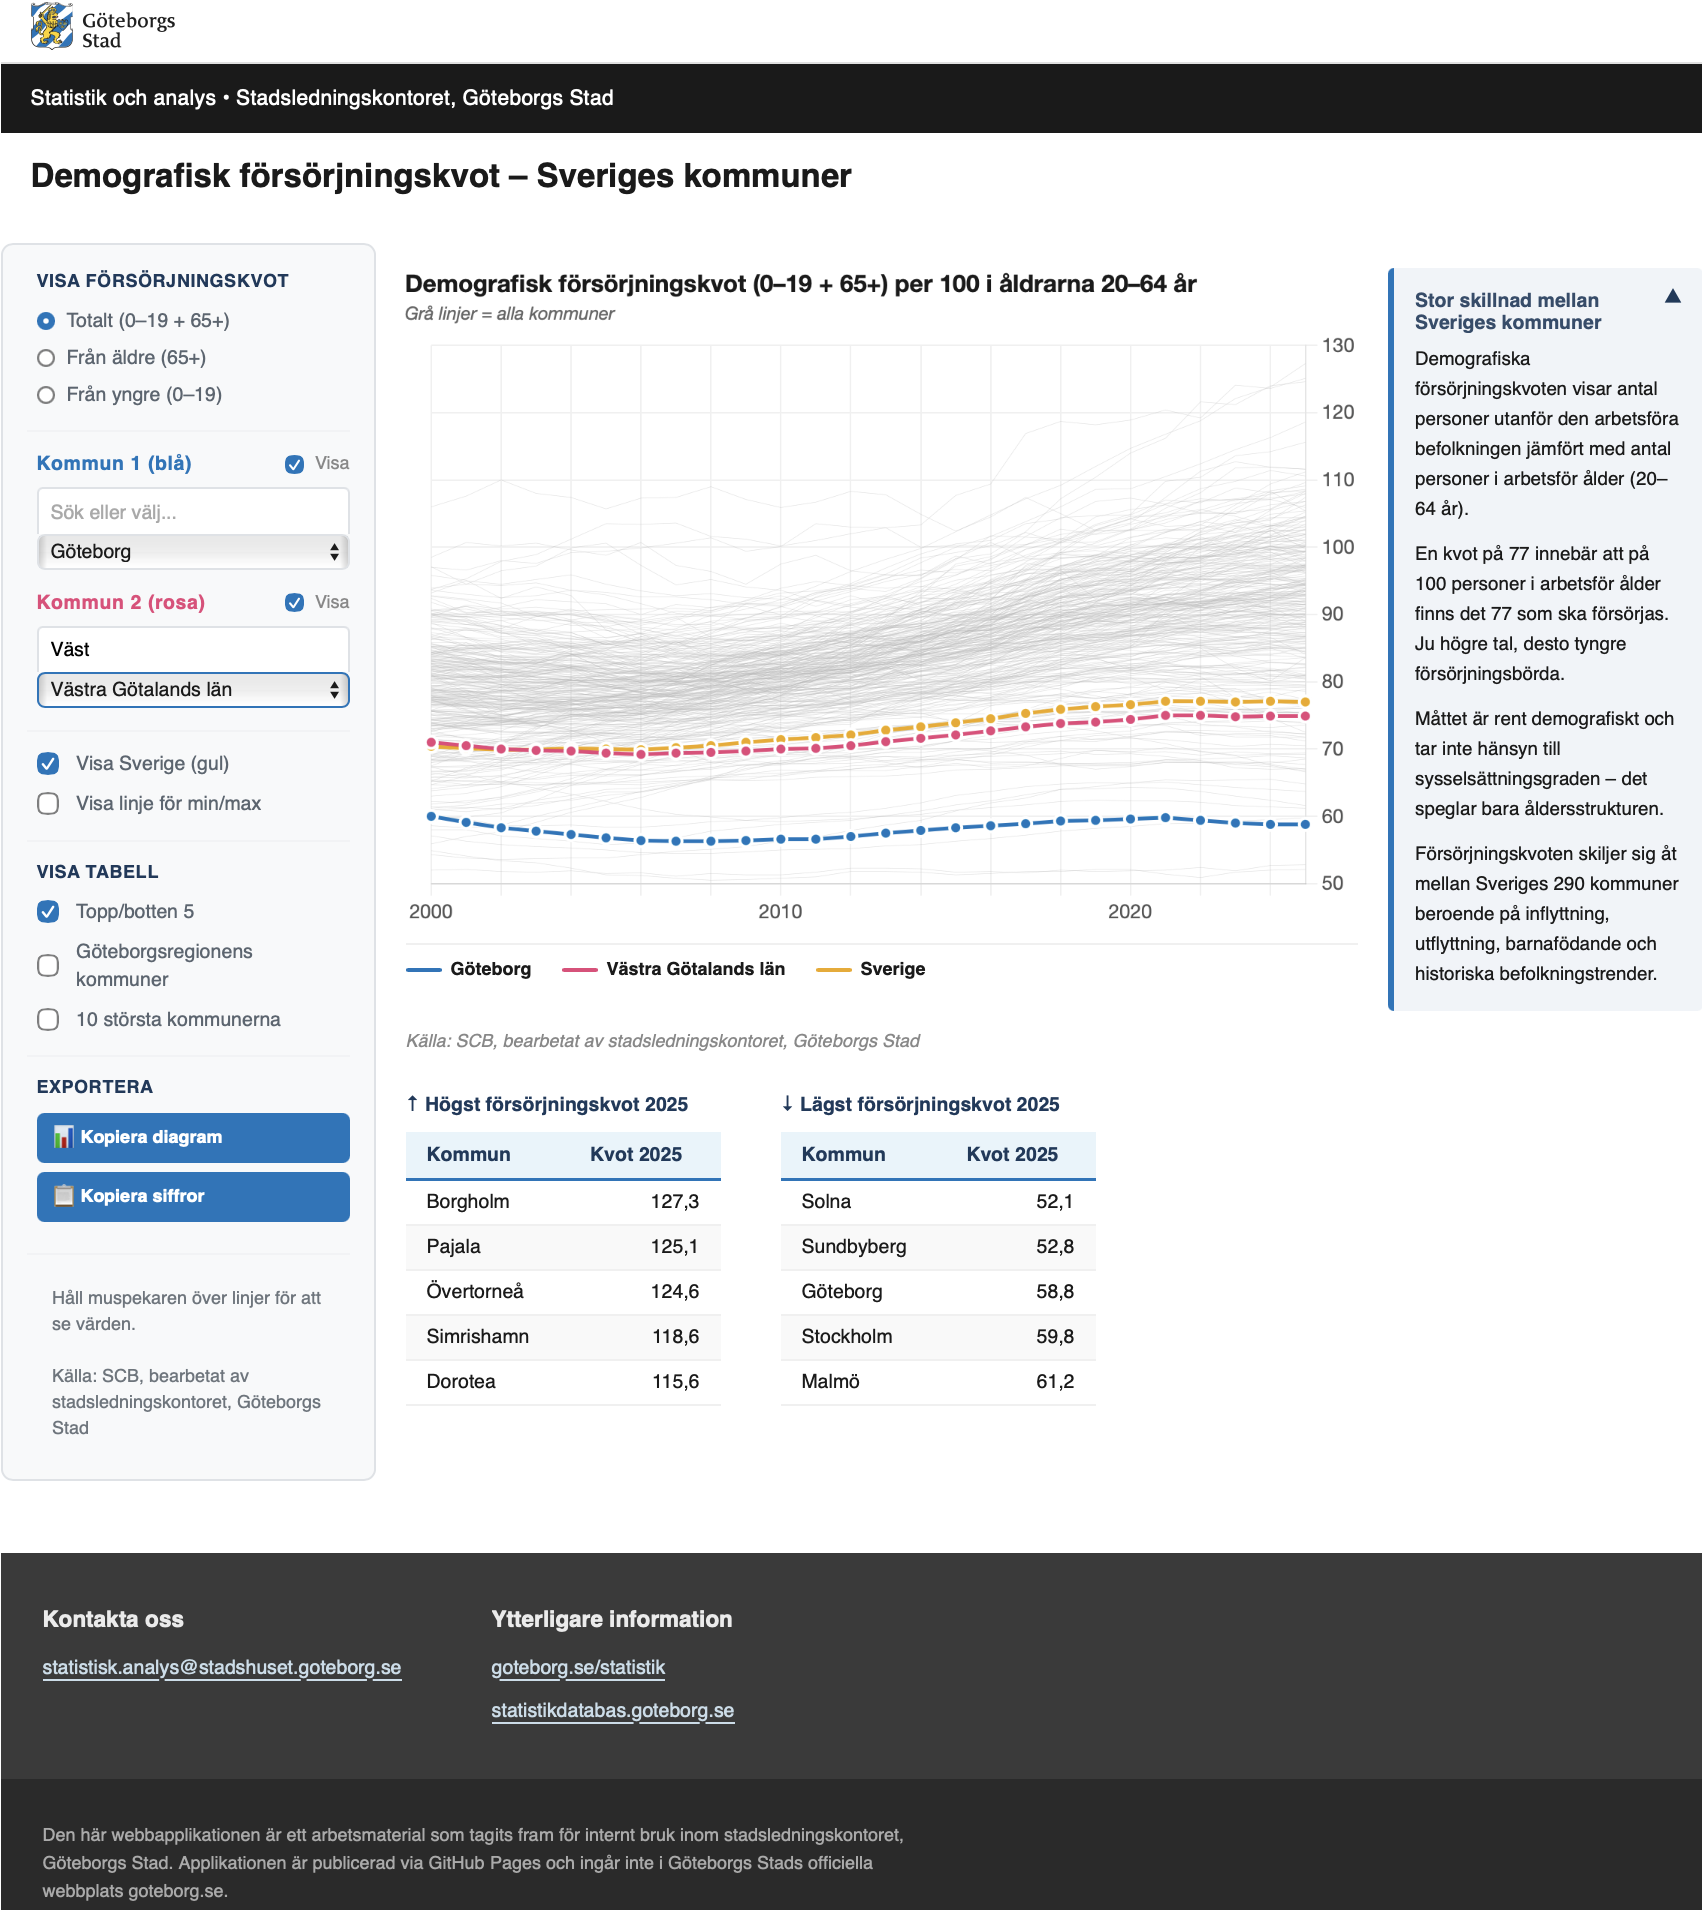
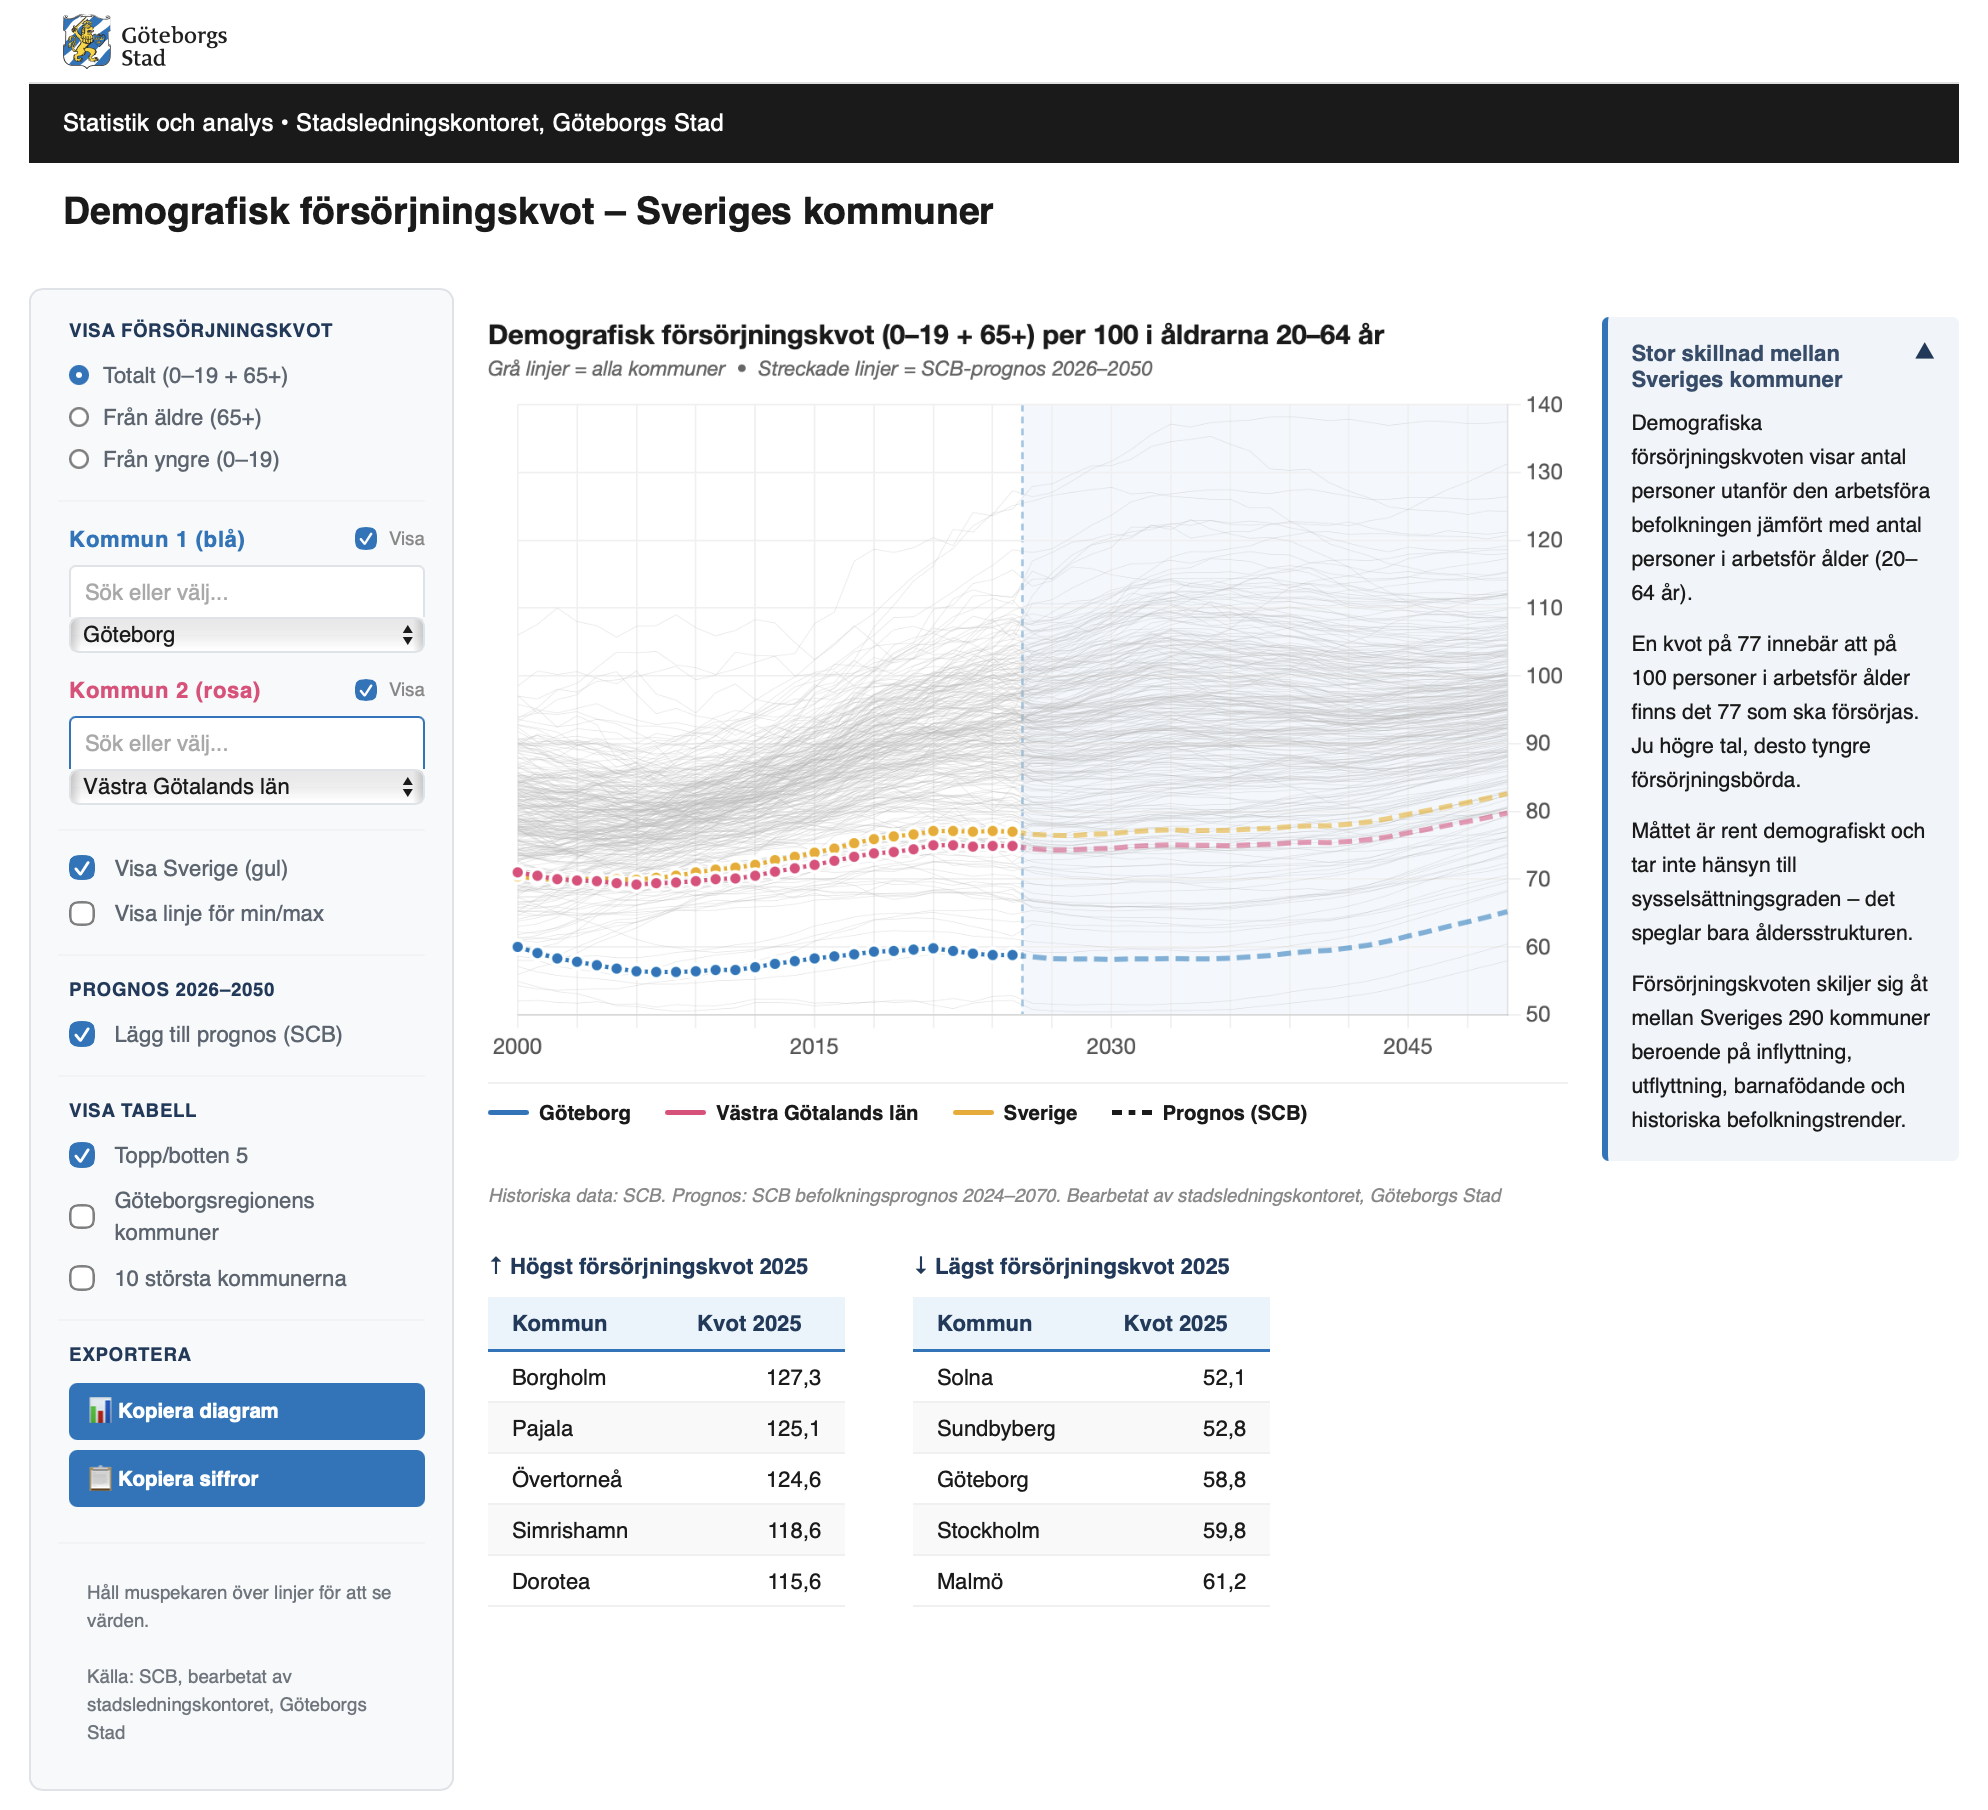
feat: prognos 2026–2050, mobilfix, uppdaterad README

diff --git a/README.md b/README.md
@@ -1,65 +1,134 @@
 # Demografisk försörjningskvot – Sveriges kommuner
 
-Interaktiv webbapplikation för analys av demografisk försörjningskvot i Sveriges kommuner, framtagen inom stadsledningskontoret, Göteborgs Stad.
+Interaktiv webbapplikation som visar demografisk försörjningskvot för alla Sveriges kommuner och län 2000–2025, med möjlighet att lägga till SCB:s befolkningsprognos 2026–2050.
+
+**Länk:** https://globalfunlearning.github.io/forsorjningskvot/
 
 ![Skärmdump av applikationen](skärmdump.png)
 
-## Om applikationen
+---
 
-Applikationen visar hur den demografiska försörjningskvoten skiljer sig åt mellan Sveriges kommuner under perioden 2000–2025. Måttet visar hur många personer som befinner sig utanför arbetsför ålder (0–19 år och 65+) per 100 personer i arbetsför ålder (20–64 år) – ett rent demografiskt mått som inte tar hänsyn till faktisk sysselsättning.
+## Funktioner
 
-Tre mått kan väljas:
-- **Totalt** – summan av barn och äldre
-- **Från äldre** – personer 65 år och äldre
-- **Från yngre** – personer 0–19 år
+- Välj mellan tre mått: totalt (0–19 + 65+), från äldre (65+) eller från yngre (0–19)
+- Jämför valfria kommuner eller län mot varandra
+- Visa Sverige, min/max-linjer och grå bakgrundslinjer för alla kommuner
+- **Prognos 2026–2050** (SCB): lägg till streckade prognoslinjer med ljusblå bakgrund för prognosåren
+- Tabeller: topp/botten 5, Göteborgsregionens kommuner, 10 största kommunerna
+- Exportera diagram som PNG eller data som TSV (klistras in i Excel)
+- Responsiv layout – fungerar på mobil och desktop
 
-Längst ner i kommunlistan finns även Sveriges 21 län, som kan väljas och jämföras på samma sätt som kommuner.
+---
+
+## Filstruktur
+
+```
+forsorjningskvot/
+├── index.qmd            # Huvudfil – Quarto + HTML + JavaScript
+├── styles.css           # CSS enligt Göteborgs grafiska profil
+├── _quarto.yml          # Quarto-konfiguration
+├── gbg_li_rgb.svg       # Göteborgs logotyp
+├── hamta_data.R         # Hämtar historiska data från SCB API → data/forsorjningskvot.json
+├── hamta_prognos.R      # Hämtar SCB:s befolkningsprognos → data/prognos.json
+├── README.md            # Projektbeskrivning
+├── skärmdump.png        # Skärmdump i README
+├── data/                # Genererad JSON (gitignorerad)
+└── docs/                # Renderad HTML (publiceras via GitHub Pages)
+```
+
+---
 
 ## Arbetsflöde
 
-Data hämtas direkt från SCB:s statistikdatabas via API med R-paketet `pxweb`. När ny statistik finns tillgänglig (normalt varje år) körs datahämtningen om och applikationen renderas på nytt.
-
-```
-hamta_data.R          → data/forsorjningskvot.json
-quarto render         → docs/index.html
-git push origin main  → publiceras på GitHub Pages
-```
-
-### Uppdatera med nytt statistikår
-
 ```r
-# 1. Hämta ny data från SCB
-source("hamta_data.R")
+# 1. Hämta historiska data (behövs bara vid nytt statistikår)
+source("hamta_data.R")        # → data/forsorjningskvot.json
 
-# 2. Rendera HTML
-# I Terminal:
-# quarto render index.qmd --to html
-
-# 3. Pusha till GitHub
-# git add .
-# git commit -m "Uppdatering statistik ÅÅÅÅ"
-# git push origin main
+# 2. Hämta prognosdata (behövs vid ny SCB-prognos)
+source("hamta_prognos.R")     # → data/prognos.json
 ```
 
-## Filer
+```bash
+# 3. Rendera HTML
+quarto render index.qmd --to html
 
-| Fil | Beskrivning |
-|-----|-------------|
-| `hamta_data.R` | Hämtar data från SCB API och exporterar till JSON |
-| `index.qmd` | Quarto-fil som renderar HTML-applikationen |
-| `styles.css` | Stilmall enligt Göteborgs Stads grafiska profil |
-| `_quarto.yml` | Quarto-projektkonfiguration |
-| `gbg_li_rgb.svg` | Göteborgs Stads logotyp |
-| `data/` | Genererad JSON-data (skapas av hamta_data.R) |
-| `docs/` | Renderad HTML som publiceras via GitHub Pages |
+# 4. Publicera
+git add . && git commit -m "uppdatera data" && git push
+```
 
-## Teknisk stack
+---
 
-- **R + pxweb** – datahämtning från SCB API
-- **Quarto** – dokumentformat och rendering
-- **Chart.js** – interaktiva diagram
-- **GitHub Pages** – publicering
+## JSON-struktur
 
-## OBS
+### `data/forsorjningskvot.json`
+```json
+{
+  "senaste_ar": 2025,
+  "ar": [2000, 2001, ..., 2025],
+  "totalt": {
+    "kommuner": [{ "namn": "Göteborg", "varden": [58.4, ...] }],
+    "lan":      [{ "namn": "Västra Götalands län", "varden": [...] }],
+    "sverige":  [70.4, ...]
+  },
+  "aldre": { ... },
+  "yngre": { ... }
+}
+```
 
-Detta är ett arbetsmaterial för internt bruk inom stadsledningskontoret, Göteborgs Stad. Applikationen publiceras via GitHub Pages och ingår inte i Göteborgs Stads officiella webbplats goteborg.se.
+### `data/prognos.json`
+```json
+{
+  "ar": [2026, 2027, ..., 2050],
+  "forsta_ar": 2026,
+  "sista_ar": 2050,
+  "totalt": {
+    "kommuner": [{ "namn": "Göteborg", "varden": [59.1, ...] }],
+    "lan":      [{ "namn": "Västra Götalands län", "varden": [...] }],
+    "sverige":  [78.2, ...]
+  },
+  "aldre": { ... },
+  "yngre": { ... }
+}
+```
+
+---
+
+## Teknikval
+
+| Teknik | Motivering |
+|--------|-----------|
+| Chart.js | Enkelt, snabbt, professionellt utseende |
+| Quarto | R bäddar in JSON i HTML vid rendering |
+| `embed-resources: true` | Allt i en HTML-fil – fungerar offline och på GitHub Pages |
+| pxweb (R) | Hämtar från SCB API |
+| GitHub Pages | Statisk publicering utan server |
+
+---
+
+## Göteborgs grafiska profil
+
+```css
+--gb-bla:   #0076bc   /* Göteborgsblå – Kommun 1, knappar */
+--gb-rosa:  #e8457a   /* Rosa – Kommun 2 */
+--gb-gul:   #f0a800   /* Gul – Sverige-linjen */
+--gb-mork:  #1a3a5c   /* Mörkblå – rubriker, text */
+```
+
+---
+
+## SCB-tabeller
+
+| Tabell | Innehåll |
+|--------|---------|
+| `FkvotHVD` | Historisk försörjningskvot per kommun och län 2000– |
+| `BefProgRegFakN` | Befolkningsprognos per kommun, ettårsklasser, 2024–2070 |
+
+---
+
+## Att tänka på
+
+- `data/`-mappen är gitignorerad – JSON-filerna genereras lokalt och bäddas in vid `quarto render`
+- Knivsta har `null`-värden för 2000–2001 (kommunen tillkom 2002) – hanteras korrekt
+- `senaste_ar` i JSON uppdaterar automatiskt alla årsrubriker i tabellerna
+- Prognosdata (`prognos.json`) är valfritt – saknas filen visas en informationstext i sidebaren
+- SCB:s prognos sträcker sig till 2070 men appen visar bara 2026–2050
